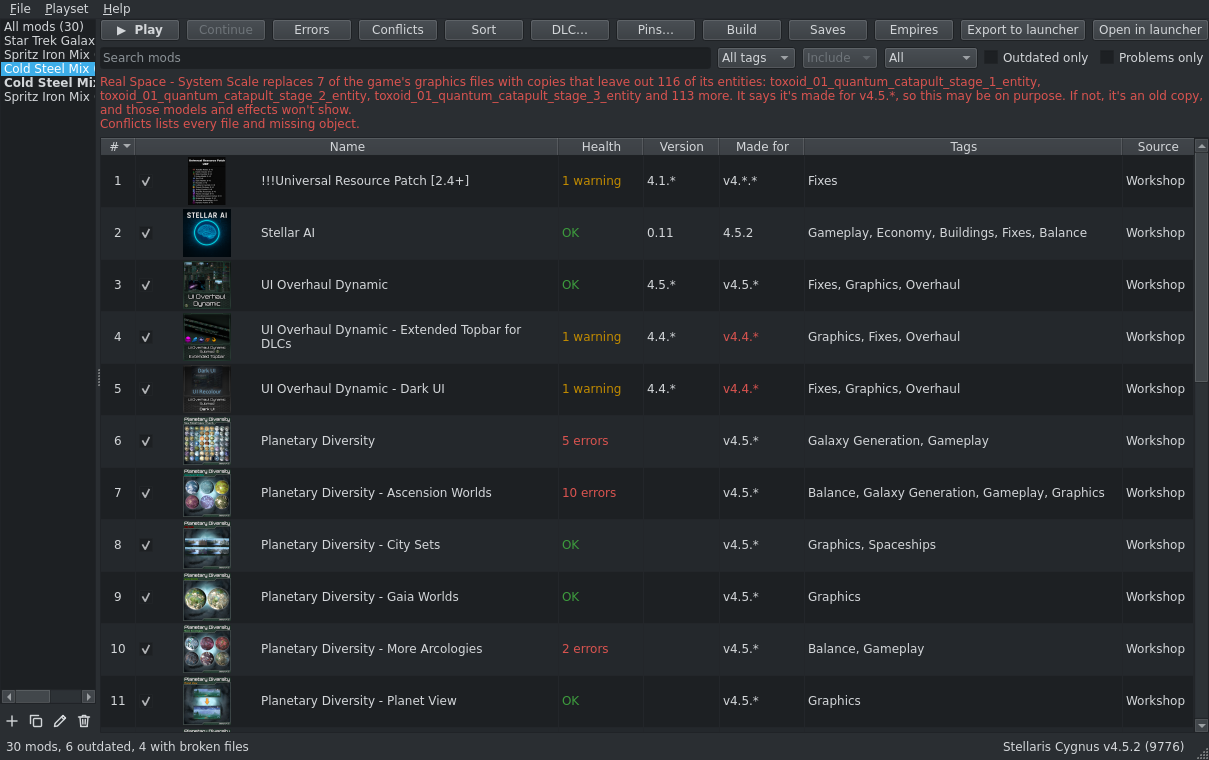
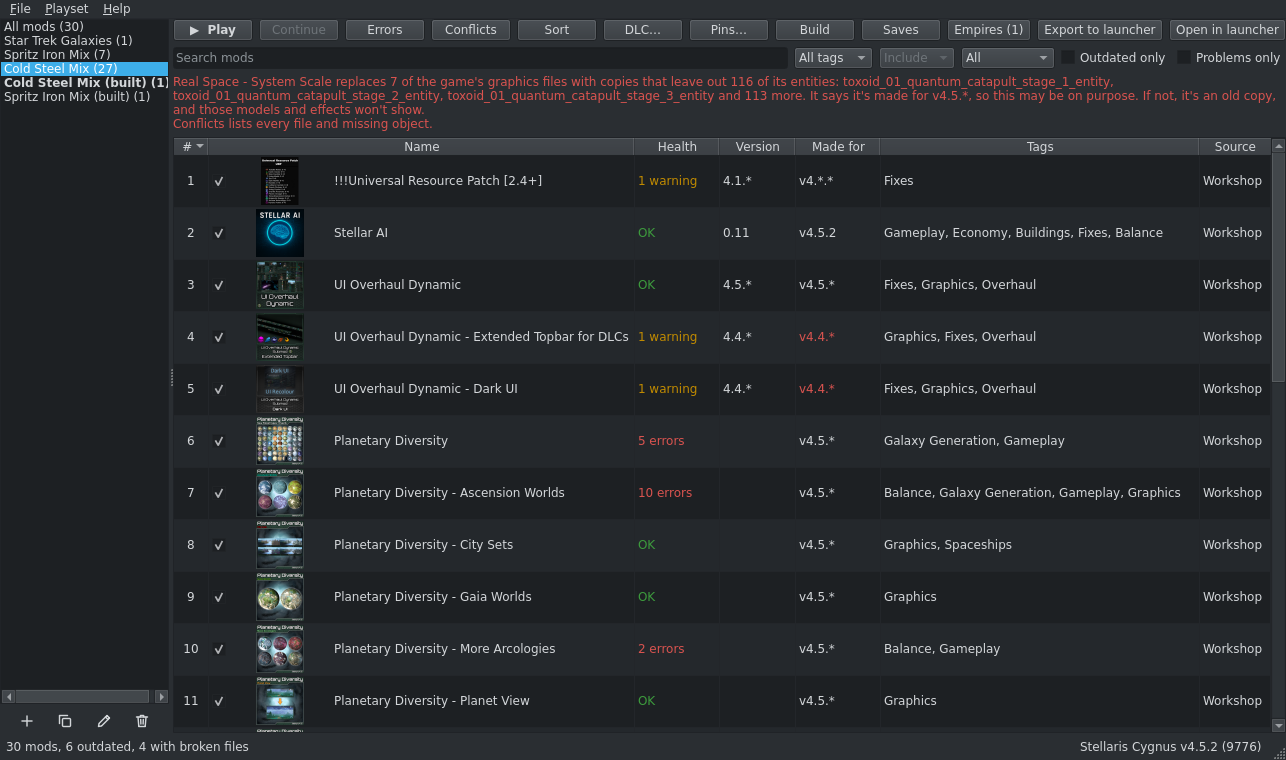
Start the window wider by the Empires button
The playset bar gained the Empires button, so the window's starting width,
also the least it keeps when it sizes itself to the mod list, grows by that
button's width and the bar's spacing. Measured from the button, so it follows
the font and style. The README's main window pictures are retaken.

diff --git a/src/cold_steel/ui/main_window.py b/src/cold_steel/ui/main_window.py
@@ -208,6 +208,9 @@ TAGS_SHARE = 0.75
 WIDEST_HEALTH = "99 warnings"
 # Old copies named above the mod list; Conflicts lists the rest.
 OLD_COPIES_SHOWN = 3
+# The window's starting size, before the Empires button widens it. It's also
+# the least width the window keeps when it sizes itself to the mod list.
+START_WIDTH, START_HEIGHT = 1200, 760
 
 
 class MainWindow(QMainWindow):
@@ -258,7 +261,6 @@ class MainWindow(QMainWindow):
     ) -> None:
         super().__init__(parent)
         self.setWindowTitle("Cold Steel")
-        self.resize(1200, 760)
         self.settings = settings or Settings()
 
         self.tasks = TaskRunner(self)
@@ -356,6 +358,10 @@ class MainWindow(QMainWindow):
         self.pages.addWidget(self._build_message_page())
         self.setCentralWidget(self.pages)
         self._build_status_bar()
+        # Wider by the Empires button and its gap, so the playset bar keeps its room.
+        bar = self.playset_bar.layout()
+        added = self.empires_button.sizeHint().width() + (bar.spacing() if bar else 0)
+        self.resize(START_WIDTH + added, START_HEIGHT)
         self._read_saves_setting()  # off until the game is found
 
         if scan is not None:

diff --git a/tests/test_main_window.py b/tests/test_main_window.py
@@ -47,6 +47,17 @@ def test_window_opens_and_closes(qtbot: QtBot) -> None:
     assert not window.isVisible()
 
 
+def test_the_window_starts_wider_by_the_empires_button(qtbot: QtBot) -> None:
+    from cold_steel.ui.main_window import START_WIDTH
+
+    window = MainWindow()
+    qtbot.addWidget(window)
+    bar = window.playset_bar.layout()
+    assert bar is not None
+    added = window.empires_button.sizeHint().width() + bar.spacing()
+    assert added > 0 and window.width() == START_WIDTH + added
+
+
 @pytest.fixture
 def window(qtbot: QtBot, sample_install: SampleInstall, tmp_path: Path) -> MainWindow:
     win = MainWindow(
